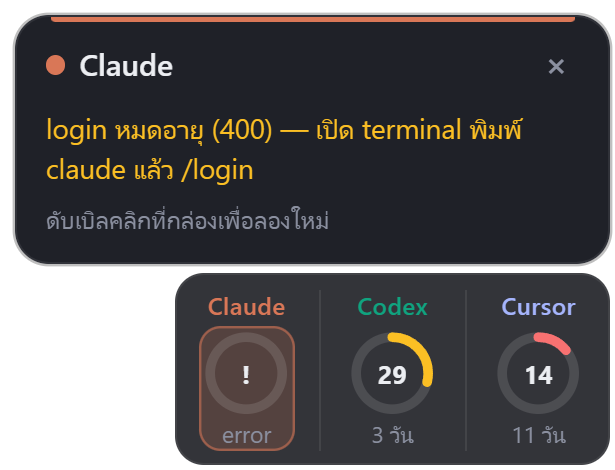
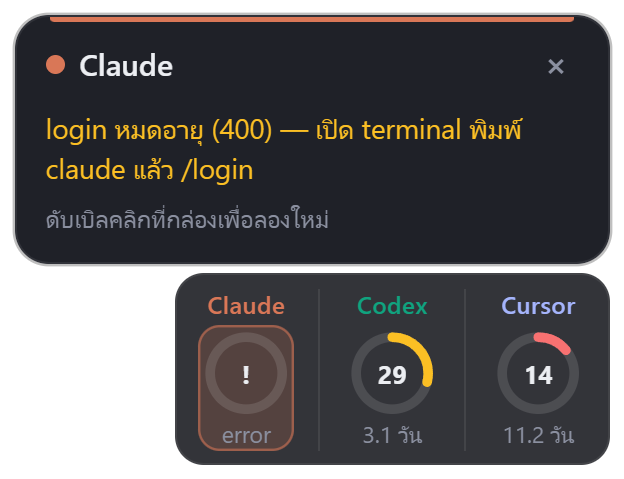
Show days left with one decimal
Ring labels read "1.3 วัน" instead of "1 วัน" when a reset is a day or more
away, rounded down so they never show more time than is left. Hours and
minutes stay whole. README images regenerated.

diff --git a/src/index.html b/src/index.html
@@ -134,11 +134,12 @@
   const esc = (s) => String(s).replace(/[&<>"]/g, (c) => ({ '&': '&amp;', '<': '&lt;', '>': '&gt;', '"': '&quot;' }[c]));
   const color = (left) => (left > 50 ? 'var(--ok)' : left > 20 ? 'var(--warn)' : 'var(--bad)');
   const short = (label) => label.replace(' ชม.', 'ช').replace(' วัน', 'ว').replace('รอบบิล', 'บิล');
-  // Label under a ring: time left until reset in its largest whole unit; window name if no reset time.
+  // Label under a ring: time left until reset, as days to one decimal (1.3 วัน), else whole hours or minutes;
+  // window name if no reset time. Rounded down, so it never shows more time than is left.
   function leftLabel(w) {
     if (!w.resetsAt) return short(w.label);
     const m = Math.max(0, Math.floor((w.resetsAt - Date.now()) / 60000));
-    if (m >= 1440) return `${Math.floor(m / 1440)} วัน`;
+    if (m >= 1440) return `${(Math.floor(m / 144) / 10).toFixed(1)} วัน`;
     if (m >= 60) return `${Math.floor(m / 60)} ชม`;
     return `${m} นาที`;
   }

diff --git a/README.md b/README.md
@@ -22,7 +22,7 @@
 ## ✨ ทำอะไรได้
 
 - 🟢 **วงล้อบอก % ที่เหลือ** — เขียว > 50% · เหลือง > 20% · แดง ≤ 20%
-- ⏳ **ตัวเลขใต้วง = เวลาก่อนรีเซ็ต** — `2 ชม` · `4 วัน` · `35 นาที` นับลงเอง
+- ⏳ **ตัวเลขใต้วง = เวลาก่อนรีเซ็ต** — `2 ชม` · `4.3 วัน` · `35 นาที` นับลงเอง
 - 👆 **คลิกที่วง** เปิดกล่องรายละเอียด: เหลือ/ใช้ไป, รีเซ็ตวันไหนกี่โมง, เครดิต
 - 🙈 **แสดงเฉพาะบริการที่ login ไว้** — ไม่ได้ใช้ Cursor ก็ไม่ขึ้น
 - 🖱 **ลากไปวางตรงไหนก็ได้** ทุกจอ · แนวนอน/แนวตั้ง · ปรับความทึบ
